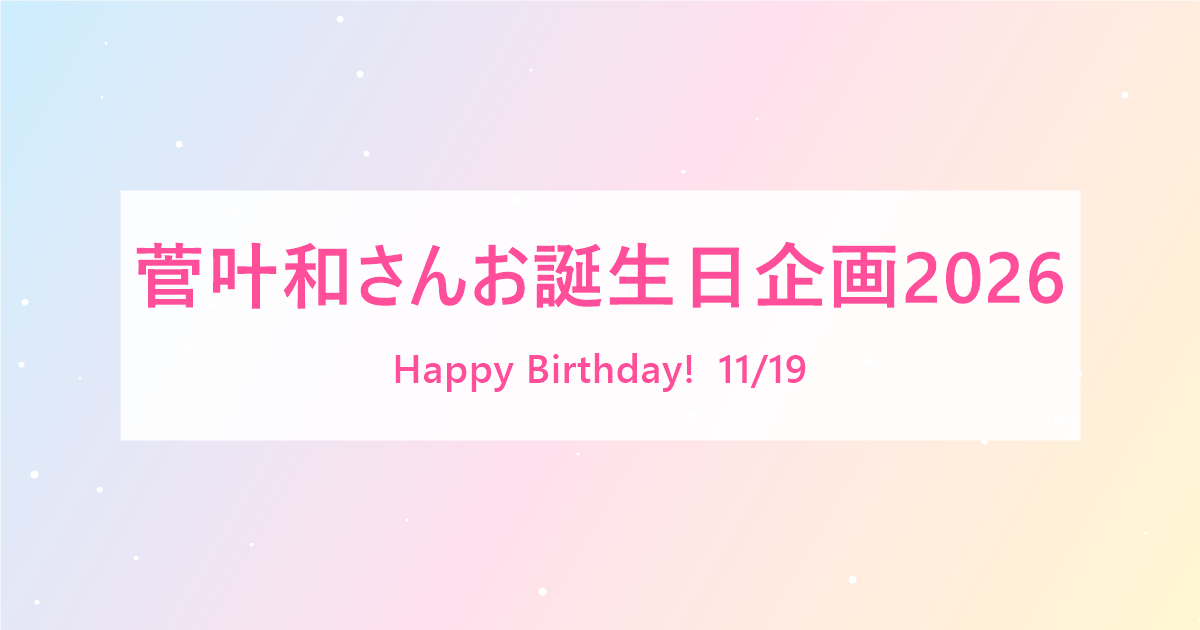
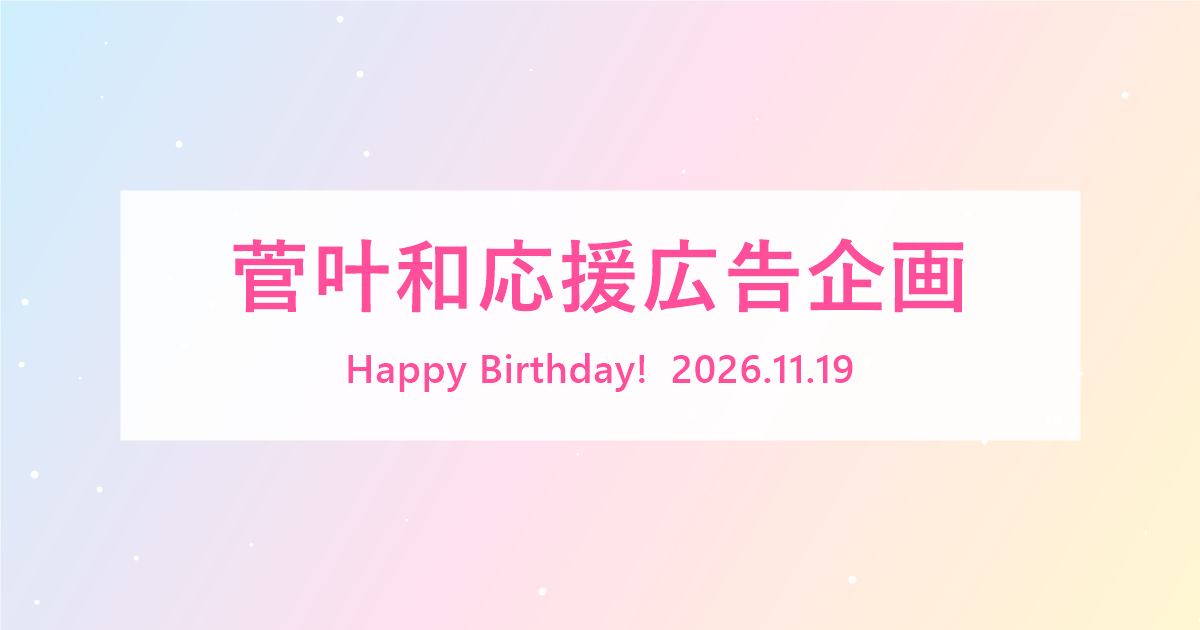
企画名を「菅叶和応援広告企画」に変更
- サイト名・タイトル・meta/OGP・フッターの©・オープニングのタイトル・README
- SNS共有用の画像（ogp.png）も新しい企画名で作り直し

Changed region(s): [[0.0925, 0.3619, 0.8942, 0.5127], [0.2775, 0.5429, 0.7092, 0.6333]]

diff --git a/pages/illust/index.html b/pages/illust/index.html
@@ -3,13 +3,13 @@
 <head>
   <meta charset="UTF-8">
   <meta name="viewport" content="width=device-width, initial-scale=1">
-  <title>駅広告イラスト｜菅叶和さんお誕生日企画2026</title>
-  <meta name="description" content="菅叶和さんお誕生日企画2026｜神奈川県某所・東京都某所・愛知県某所の駅広告イラストを掲載しています。">
+  <title>駅広告イラスト｜菅叶和応援広告企画</title>
+  <meta name="description" content="菅叶和応援広告企画｜神奈川県某所・東京都某所・愛知県某所の駅広告イラストを掲載しています。">
 
   <!-- OGP -->
   <meta property="og:type" content="article">
-  <meta property="og:site_name" content="菅叶和さんお誕生日企画2026">
-  <meta property="og:title" content="駅広告イラスト｜菅叶和さんお誕生日企画2026">
+  <meta property="og:site_name" content="菅叶和応援広告企画">
+  <meta property="og:title" content="駅広告イラスト｜菅叶和応援広告企画">
   <meta property="og:description" content="神奈川県某所・東京都某所・愛知県某所の駅広告イラストを掲載しています。">
   <meta property="og:url" content="https://kannkannkikaku.github.io/KannkannBirthday2026/pages/illust/">
   <meta property="og:image" content="https://kannkannkikaku.github.io/KannkannBirthday2026/images/ogp.png">
@@ -38,7 +38,7 @@
 
   <!-- ヘッダー -->
   <header class="site-header">
-    <a class="site-logo" href="../../index.html">菅叶和さんお誕生日企画2026</a>
+    <a class="site-logo" href="../../index.html">菅叶和応援広告企画</a>
     <button class="menu-btn" type="button" aria-expanded="false" aria-controls="site-menu" aria-label="メニューを開く">
       <span></span><span></span><span></span>
     </button>
@@ -94,7 +94,7 @@
       企画アカウント（X）
     </a>
     <p class="site-footer__note"><span>本サイトはファン有志による非公式企画です。</span><span>ご本人・所属事務所・公式とは関係ありません。</span></p>
-    <small>© 菅叶和誕生日企画 2026</small>
+    <small>© 菅叶和応援広告企画 2026</small>
   </footer>
 
   <!-- スマホ下部ナビ -->

diff --git a/pages/message/index.html b/pages/message/index.html
@@ -3,13 +3,13 @@
 <head>
   <meta charset="UTF-8">
   <meta name="viewport" content="width=device-width, initial-scale=1">
-  <title>お祝いメッセージ｜菅叶和さんお誕生日企画2026</title>
-  <meta name="description" content="菅叶和さんお誕生日企画2026｜ファンの皆さまから届いたお祝いメッセージを掲載しています。">
+  <title>お祝いメッセージ｜菅叶和応援広告企画</title>
+  <meta name="description" content="菅叶和応援広告企画｜ファンの皆さまから届いたお祝いメッセージを掲載しています。">
 
   <!-- OGP -->
   <meta property="og:type" content="article">
-  <meta property="og:site_name" content="菅叶和さんお誕生日企画2026">
-  <meta property="og:title" content="お祝いメッセージ｜菅叶和さんお誕生日企画2026">
+  <meta property="og:site_name" content="菅叶和応援広告企画">
+  <meta property="og:title" content="お祝いメッセージ｜菅叶和応援広告企画">
   <meta property="og:description" content="ファンの皆さまから届いたお祝いメッセージを掲載しています。">
   <meta property="og:url" content="https://kannkannkikaku.github.io/KannkannBirthday2026/pages/message/">
   <meta property="og:image" content="https://kannkannkikaku.github.io/KannkannBirthday2026/images/ogp.png">
@@ -37,7 +37,7 @@
 
   <!-- ヘッダー -->
   <header class="site-header">
-    <a class="site-logo" href="../../index.html">菅叶和さんお誕生日企画2026</a>
+    <a class="site-logo" href="../../index.html">菅叶和応援広告企画</a>
     <button class="menu-btn" type="button" aria-expanded="false" aria-controls="site-menu" aria-label="メニューを開く">
       <span></span><span></span><span></span>
     </button>
@@ -79,7 +79,7 @@
       企画アカウント（X）
     </a>
     <p class="site-footer__note"><span>本サイトはファン有志による非公式企画です。</span><span>ご本人・所属事務所・公式とは関係ありません。</span></p>
-    <small>© 菅叶和誕生日企画 2026</small>
+    <small>© 菅叶和応援広告企画 2026</small>
   </footer>
 
   <!-- スマホ下部ナビ -->

diff --git a/pages/information/index.html b/pages/information/index.html
@@ -3,13 +3,13 @@
 <head>
   <meta charset="UTF-8">
   <meta name="viewport" content="width=device-width, initial-scale=1">
-  <title>駅広告などのお知らせ｜菅叶和さんお誕生日企画2026</title>
-  <meta name="description" content="菅叶和さんお誕生日企画2026｜駅広告の掲出場所と掲出期間のお知らせです。">
+  <title>駅広告などのお知らせ｜菅叶和応援広告企画</title>
+  <meta name="description" content="菅叶和応援広告企画｜駅広告の掲出場所と掲出期間のお知らせです。">
 
   <!-- OGP -->
   <meta property="og:type" content="article">
-  <meta property="og:site_name" content="菅叶和さんお誕生日企画2026">
-  <meta property="og:title" content="駅広告などのお知らせ｜菅叶和さんお誕生日企画2026">
+  <meta property="og:site_name" content="菅叶和応援広告企画">
+  <meta property="og:title" content="駅広告などのお知らせ｜菅叶和応援広告企画">
   <meta property="og:description" content="駅広告の掲出場所と掲出期間のお知らせです。">
   <meta property="og:url" content="https://kannkannkikaku.github.io/KannkannBirthday2026/pages/information/">
   <meta property="og:image" content="https://kannkannkikaku.github.io/KannkannBirthday2026/images/ogp.png">
@@ -38,7 +38,7 @@
 
   <!-- ヘッダー -->
   <header class="site-header">
-    <a class="site-logo" href="../../index.html">菅叶和さんお誕生日企画2026</a>
+    <a class="site-logo" href="../../index.html">菅叶和応援広告企画</a>
     <button class="menu-btn" type="button" aria-expanded="false" aria-controls="site-menu" aria-label="メニューを開く">
       <span></span><span></span><span></span>
     </button>
@@ -130,7 +130,7 @@
       企画アカウント（X）
     </a>
     <p class="site-footer__note"><span>本サイトはファン有志による非公式企画です。</span><span>ご本人・所属事務所・公式とは関係ありません。</span></p>
-    <small>© 菅叶和誕生日企画 2026</small>
+    <small>© 菅叶和応援広告企画 2026</small>
   </footer>
 
   <!-- スマホ下部ナビ -->

diff --git a/index.html b/index.html
@@ -3,13 +3,13 @@
 <head>
   <meta charset="UTF-8">
   <meta name="viewport" content="width=device-width, initial-scale=1">
-  <title>菅叶和さんお誕生日企画2026</title>
+  <title>菅叶和応援広告企画</title>
   <meta name="description" content="声優・菅叶和さんのお誕生日（11月19日）をお祝いするファン有志の企画サイトです。ファンの皆さまから集めたお祝いメッセージを掲載しています。">
 
   <!-- OGP -->
   <meta property="og:type" content="website">
-  <meta property="og:site_name" content="菅叶和さんお誕生日企画2026">
-  <meta property="og:title" content="菅叶和さんお誕生日企画2026">
+  <meta property="og:site_name" content="菅叶和応援広告企画">
+  <meta property="og:title" content="菅叶和応援広告企画">
   <meta property="og:description" content="声優・菅叶和さんのお誕生日をお祝いするファン企画サイトです。">
   <meta property="og:url" content="https://kannkannkikaku.github.io/KannkannBirthday2026/">
   <meta property="og:image" content="https://kannkannkikaku.github.io/KannkannBirthday2026/images/ogp.png">
@@ -43,7 +43,7 @@
 
   <!-- ヘッダー -->
   <header class="site-header">
-    <a class="site-logo" href="index.html">菅叶和さんお誕生日企画2026</a>
+    <a class="site-logo" href="index.html">菅叶和応援広告企画</a>
     <button class="menu-btn" type="button" aria-expanded="false" aria-controls="site-menu" aria-label="メニューを開く">
       <span></span><span></span><span></span>
     </button>
@@ -133,7 +133,7 @@
       企画アカウント（X）
     </a>
     <p class="site-footer__note"><span>本サイトはファン有志による非公式企画です。</span><span>ご本人・所属事務所・公式とは関係ありません。</span></p>
-    <small>© 菅叶和誕生日企画 2026</small>
+    <small>© 菅叶和応援広告企画 2026</small>
   </footer>
 
   <!-- スマホ下部ナビ -->

diff --git a/js/opening.js b/js/opening.js
@@ -44,7 +44,7 @@
     op.setAttribute('aria-hidden', 'true');
     // 中身は固定の文字だけ（外から入ってくるデータは含まない）
     op.innerHTML = `<p class="op-call">まもなく開演です</p><div class="op-beams"></div><div class="op-flash"></div>
-      <div class="op-title"><span>KAN KANNA BIRTHDAY 2026</span><strong>菅叶和さん<br>お誕生日企画2026</strong></div>
+      <div class="op-title"><span>KAN KANNA BIRTHDAY 2026</span><strong>菅叶和<br>応援広告企画</strong></div>
       <button class="op-skip" type="button">スキップ</button>`;
 
     const beams = op.querySelector('.op-beams');

diff --git a/css/style.css b/css/style.css
@@ -1,6 +1,6 @@
 @charset "UTF-8";
 /* =========================================================
-   菅叶和さんお誕生日企画2026 共通スタイル
+   菅叶和応援広告企画 共通スタイル
    ・スマホ優先（min-width でPC向けに上書き）
    ・色やサイズは :root の変数でまとめて管理
    ========================================================= */

diff --git a/README.md b/README.md
@@ -1,4 +1,4 @@
-# 菅叶和さんお誕生日企画2026
+# 菅叶和応援広告企画
 
 声優・菅叶和さんのお誕生日（11/19）をお祝いするファン企画サイトです。
 HTML / CSS / JavaScript のみで作っているので、ビルドは不要です。外部ライブラリも使っていません（フォントのみ Google Fonts を利用）。
